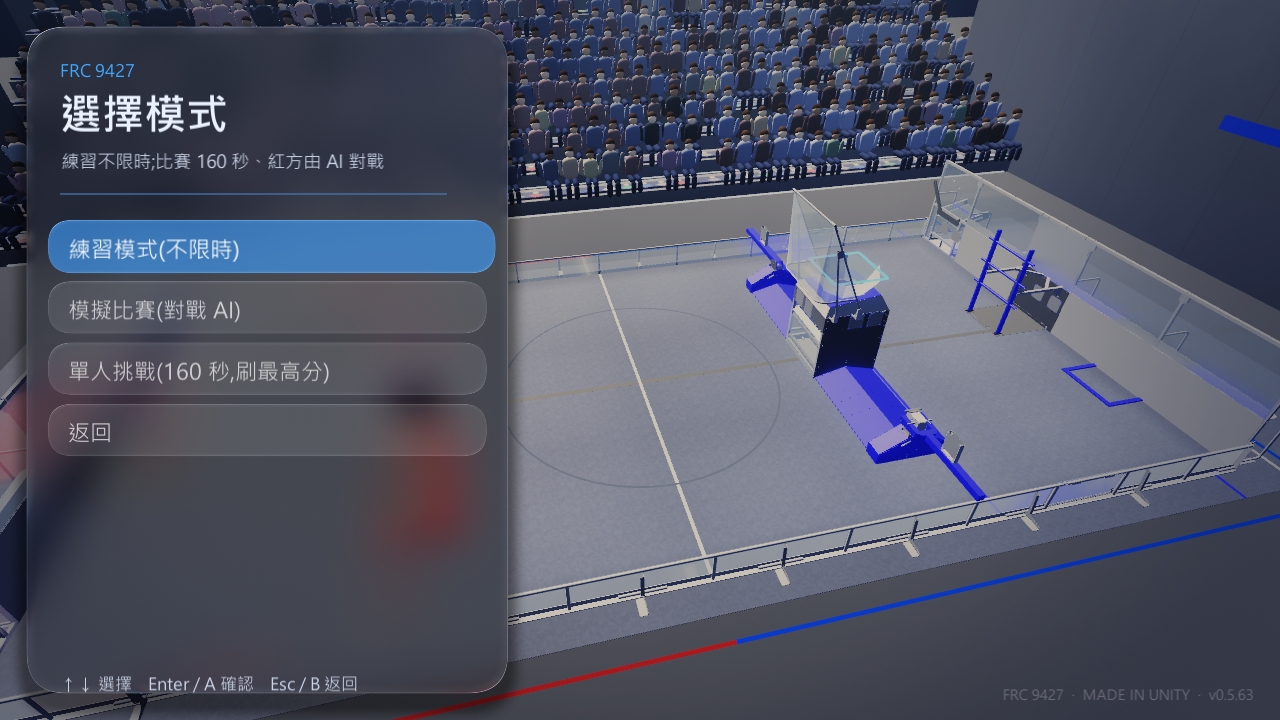
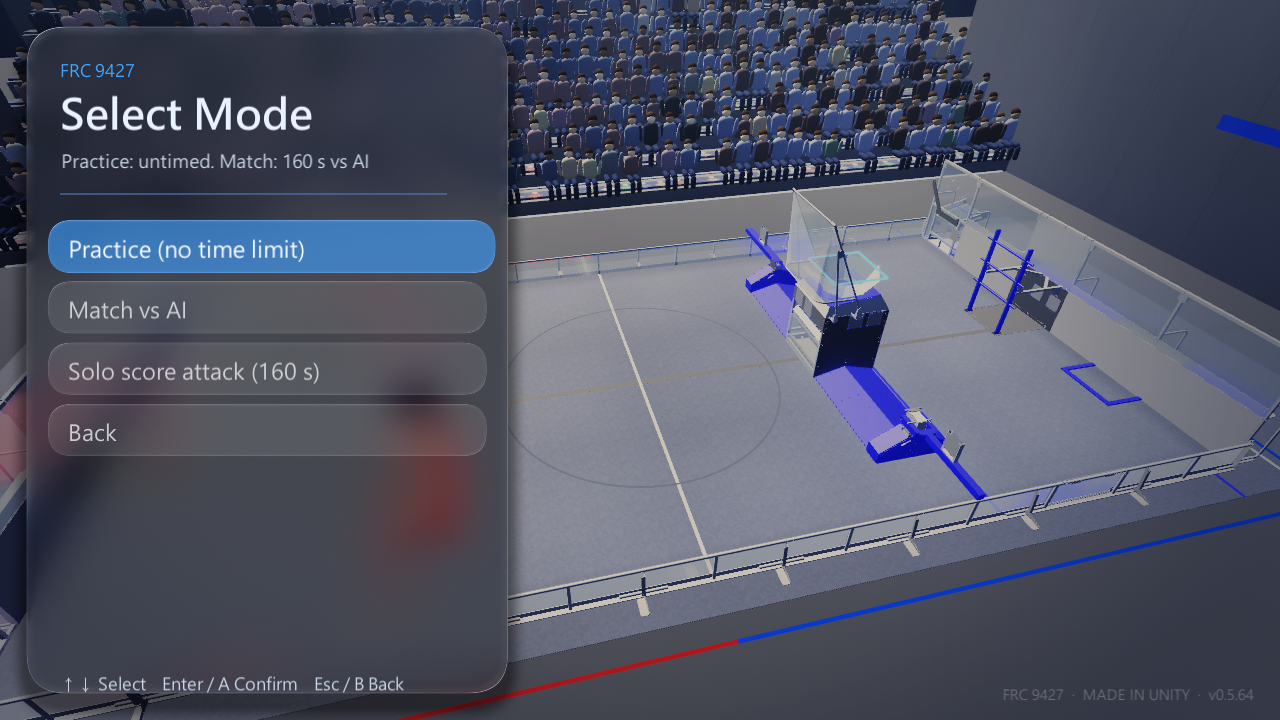
v0.5.64 procedural robot restyle

diff --git a/Assets/Scripts/Sim/ProcRobot.cs b/Assets/Scripts/Sim/ProcRobot.cs
@@ -1,4 +1,4 @@
-using UnityEngine;
+using UnityEngine;
 
 namespace FrcSim
 {
@@ -8,7 +8,7 @@ namespace FrcSim
     {
         public static bool Is(string file) { return file != null && file.StartsWith("proc:"); }
 
-        static Material Mat(Color c) { var m = new Material(Shader.Find("Standard")); m.SetColor("_Color", c); m.SetFloat("_Glossiness", 0.25f); return m; }
+        static Material Mat(Color c) { var m = new Material(Shader.Find("Standard")); m.SetColor("_Color", c); m.SetFloat("_Glossiness", 0.1f); m.SetFloat("_Metallic", 0.18f); return m; }
         static GameObject Part(Transform p, PrimitiveType t, Vector3 pos, Vector3 scale, Color c, Vector3? euler = null)
         {
             var g = GameObject.CreatePrimitive(t); Object.Destroy(g.GetComponent<Collider>());
@@ -22,15 +22,17 @@ namespace FrcSim
             var f = spec.Substring(5).Split(',');
             float L = 0.7f, W = 0.7f, H = 0.55f; Color acc = new Color(0.12f, 0.36f, 1f);
             try { L = float.Parse(f[0]); W = float.Parse(f[1]); H = float.Parse(f[2]); ColorUtility.TryParseHtmlString(f[3], out acc); } catch { }
-            Color dark = new Color(0.16f, 0.17f, 0.2f), steel = new Color(0.62f, 0.64f, 0.68f), blue = new Color(0.1f, 0.25f, 0.95f);
+            Color dark = new Color(0.075f, 0.078f, 0.09f), steel = new Color(0.34f, 0.36f, 0.40f), blue = new Color(0.06f, 0.17f, 0.62f);   // 石墨黑車身 + 消光金屬灰 + 略沉的保險桿藍;只有 acc 是唯一點綴色
             // 底盤板
             Part(root, PrimitiveType.Cube, new Vector3(0, 0.08f, 0), new Vector3(L - 0.1f, 0.05f, W - 0.1f), dark);
             // 保險桿(四邊)
-            float bh = 0.12f, by = 0.14f, bt = 0.045f;
+            float bh = 0.10f, by = 0.13f, bt = 0.04f;
             Part(root, PrimitiveType.Cube, new Vector3(L / 2f - bt / 2f, by, 0), new Vector3(bt, bh, W), blue);
             Part(root, PrimitiveType.Cube, new Vector3(-L / 2f + bt / 2f, by, 0), new Vector3(bt, bh, W), blue);
             Part(root, PrimitiveType.Cube, new Vector3(0, by, W / 2f - bt / 2f), new Vector3(L, bh, bt), blue);
             Part(root, PrimitiveType.Cube, new Vector3(0, by, -W / 2f + bt / 2f), new Vector3(L, bh, bt), blue);
+            foreach (int sx2 in new[] { -1, 1 }) foreach (int sz2 in new[] { -1, 1 })
+                Part(root, PrimitiveType.Cylinder, new Vector3(sx2 * (L / 2f - bt / 2f), by, sz2 * (W / 2f - bt / 2f)), new Vector3(bt * 1.9f, bh / 2f, bt * 1.9f), blue);   // 圓角
             // 輪模組
             foreach (int sx in new[] { -1, 1 }) foreach (int sz in new[] { -1, 1 })
                 Part(root, PrimitiveType.Cylinder, new Vector3(sx * (L / 2f - 0.14f), 0.05f, sz * (W / 2f - 0.11f)), new Vector3(0.1f, 0.025f, 0.1f), new Color(0.07f, 0.07f, 0.08f), new Vector3(90, 0, 0));
@@ -43,7 +45,7 @@ namespace FrcSim
             Part(root, PrimitiveType.Cube, new Vector3(fx + 0.1f, 0.46f, 0), new Vector3(0.16f, 0.06f, W * 0.4f), acc, new Vector3(0, 0, -25));
             Part(root, PrimitiveType.Cylinder, new Vector3(fx, 0.34f, 0), new Vector3(0.1f, W * 0.2f, 0.1f), acc, new Vector3(90, 0, 0));
             // 前方吸球滾輪 + 兩側擋板
-            Part(root, PrimitiveType.Cylinder, new Vector3(L / 2f - 0.02f, 0.12f, 0), new Vector3(0.09f, W * 0.42f, 0.09f), new Color(1f, 0.82f, 0.1f), new Vector3(90, 0, 0));
+            Part(root, PrimitiveType.Cylinder, new Vector3(L / 2f - 0.02f, 0.12f, 0), new Vector3(0.09f, W * 0.42f, 0.09f), new Color(0.2f, 0.21f, 0.24f), new Vector3(90, 0, 0));
             foreach (int sz in new[] { -1, 1 }) Part(root, PrimitiveType.Cube, new Vector3(L / 2f - 0.14f, 0.14f, sz * W * 0.42f), new Vector3(0.28f, 0.12f, 0.025f), steel);
             // 儲球槽
             Part(root, PrimitiveType.Cube, new Vector3(L * 0.12f, 0.2f, 0), new Vector3(L * 0.34f, 0.025f, W * 0.7f), steel);
@@ -60,3 +62,5 @@ namespace FrcSim
         }
     }
 }
+
+

diff --git a/Assets/Scripts/Sim/UpdateCheck.cs b/Assets/Scripts/Sim/UpdateCheck.cs
@@ -17,7 +17,7 @@ namespace FrcSim
     //   找不到差異包(或失敗)時退回「開啟下載頁」,讓使用者手動下載完整版。
     public class UpdateCheck : MonoBehaviour
     {
-        public const string Current = "0.5.63";
+        public const string Current = "0.5.64";
         const string Repo = "frc9427liu-tech/FRC9427-SimApp";
         const string ReleasesApi = "https://api.github.com/repos/" + Repo + "/releases?per_page=30";
         public const string Page = "https://github.com/" + Repo + "/releases/latest";
@@ -235,6 +235,7 @@ Start-Process -FilePath $Exe -WorkingDirectory $Dst
 ";
     }
 }
+
 
 
 
